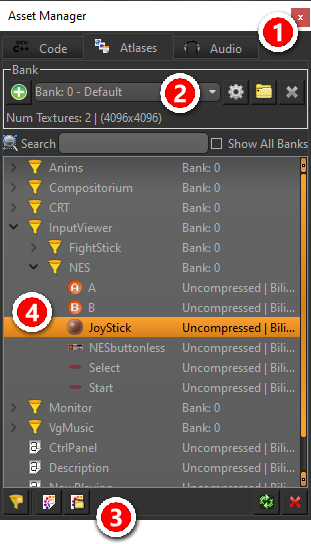
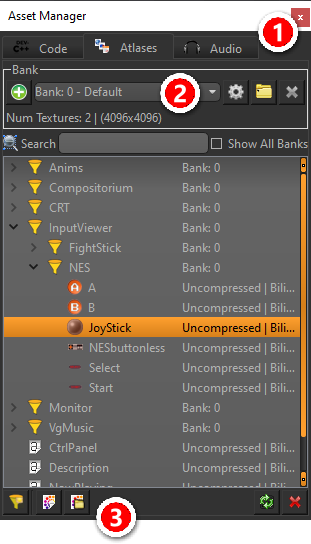
New formatting; asset manager content

Changed region(s): [[0.0289, 0.5312, 0.1736, 0.625], [0.3183, 0.9688, 0.4341, 1.0], [0.4341, 0.9375, 0.463, 0.9688]]

diff --git a/mkdocs/docs/stylesheets/hyengine.css b/mkdocs/docs/stylesheets/hyengine.css
@@ -3,3 +3,13 @@
   --md-primary-fg-color--light: #ECB7B7;
   --md-primary-fg-color--dark:  #90030C;
 }
+
+.hyorange {
+	color: #FA5A0A;
+	transform: scale(1.85);
+}
+
+.md-typeset .grid.cards > ul > li,
+.md-typeset .grid.cards > ul > li > * {
+	font-size: 0.6rem;
+}

diff --git a/mkdocs/docs/editor/asset-manager.md b/mkdocs/docs/editor/asset-manager.md
@@ -1,47 +1,72 @@
----
+---
 title: "Asset Manager"
 ---
 
-## Overview
-
-The below example is for all asset types besides **Code**, which is covered below in the [Code & Build Management](#code-build-management) section.   
+## 🔸Overview
 
 <figure>
   <img src="../img/editor/asset-manager.png" alt="Asset Manager Dock Window">
-  <figcaption>Your source code is also considered assets! Along with textures and audio. </figcaption>
+  <figcaption>Along with textures and audio, your source code is also considered assets! </figcaption>
 </figure>
 
-1. Each tab along the top independently manages a different type of asset:
-    - **Code:** Your C++ source code files, including auto-generated [entity](./items/entity.md) classes
-    - **Atlases:** Imported and generated image files combined into texture atlases
-    - **Audio:** Sound files, including music and sound effects
-2. Banks are used to group assets that are likely to be used together. Examples would be grouping assets by game level, or by type (e.g., UI sounds vs. gameplay sounds).
-> Code assets do not use banks. They instead make **builds**, which are entirely different and explained in the [Build Settings](#build-settings) section.
+1⃣. Each tab along the top independently manages a different type of asset:
 
-3. Along the bottom are the tool buttons that allow you to manage your assets:
-    - ![New Filter](../img/editor/Filter-New.png): Create new filter, which is essentially a folder to organize your assets within a bank.
-    - ![Import](../img/editor/AtlasFrame.png): Import specified assets from a single directory.
-    - ![Import Dir](../img/editor/AtlasFrame-Open.png): Import all assets from a directory and its subdirectories.
-    - ![Replace](../img/editor/atlas-replaceFrame.png): Replace selected assets by selecting the same number of new assets.
-    - ![Delete](../img/editor/edit-delete.png): Delete selected assets
-> These actions do not use an undo/redo system
+- ![CodeIcon](../img/editor/code.png) **Code:** Your C++ source code files and builds.
+- ![AtlasIcon](../img/editor/atlas-file.png) **Atlases:** Imported and generated image files combined into texture atlases.
+- ![AudioIcon](../img/editor/audio-manager.png) **Audio:** Sound files, including music and sound effects.  
 
-4. The filters and assets are shown in a tree view:
-    - You can multi-select and drag 'n drop them to new locations.  
-    - Double-clicking an asset will preview it in the **Asset Inspector**, located in the Auxiliary window.  
-    - Right-clicking an asset will open a context menu with additional options, such as renaming, moving to a different bank, or setting [Asset Properties](#asset-properties).
+!!! info inline end "Code Assets"
+    Code assets do not use **Banks**. They instead make **Builds**, which are entirely different and explained in the [Build Settings](#build-settings) section.  
+2⃣. Banks are used to group assets that are likely to be used together. Examples would be grouping assets by game level, or by type (e.g., UI sounds vs. gameplay sounds).
+
+- More information can be found in the [Banks](#banks) section
+
+3⃣. Along the bottom are the tool buttons that allow you to manage your assets:
+=== "![CodeIcon](../img/editor/code.png) Code"
+    - ![New Class](../img/editor/Source-New.png): Add a new C++ class.
+    - ![New Filter](../img/editor/Filter-New.png): Create new filter, which is essentially a folder to organize your images within a bank.
+    - ![Import](../img/editor/Source.png): Import already existing code files from a single directory.
+    - ![Import Dir](../img/editor/Source-Open.png): Import already existing code files from a directory and its subdirectories.
+    - ![Replace](../img/editor/atlas-replaceFrame.png): Replace selected images by selecting the same number of new assets.
+    - ![Delete](../img/editor/edit-delete.png): Delete selected images
+    !!! warning
+        These actions do not use an undo/redo system
+
+=== "![AtlasIcon](../img/editor/atlas-file.png) Atlases"
+    - ![New Filter](../img/editor/Filter-New.png): Create new filter, which is essentially a folder to organize your images within a bank.
+    - ![Import](../img/editor/AtlasFrame.png): Import specified PNG image files from a single directory.
+    - ![Import Dir](../img/editor/AtlasFrame-Open.png): Import all PNG image files from a directory and its subdirectories.
+    - ![Replace](../img/editor/atlas-replaceFrame.png): Replace selected images by selecting the same number of new assets.
+    - ![Delete](../img/editor/edit-delete.png): Delete selected images
+    !!! warning
+        These actions do not use an undo/redo system
+
+=== "![AudioIcon](../img/editor/audio-manager.png) Audio"
+    - ![New Filter](../img/editor/Filter-New.png): Create new filter, which is essentially a folder to organize your sounds within a bank.
+    - ![Import](../img/editor/SoundClip.png): Import specified WAV sound files from a single directory.
+    - ![Import Dir](../img/editor/SoundClip-Open.png): Import all WAV sound files from a directory and its subdirectories.
+    - ![Replace](../img/editor/atlas-replaceFrame.png): Replace selected sound WAVs by selecting the same number of new assets.
+    - ![Delete](../img/editor/edit-delete.png): Delete selected sounds
+    !!! warning
+        These actions do not use an undo/redo system
+
+## 🔸Assets
+The assets and filters are shown in the main tree view:
+
+- You can multi-select and drag 'n drop them to new locations.  
+- Double ++left-button++ an asset will preview it in the **Asset Inspector**, located in the Auxiliary window.  
+- ++right-button++ an asset will open a context menu with additional options, such as renaming, moving to a different bank, or setting [Asset Properties](#asset-properties).
+- ++right-button++ an asset and selecting **Asset Properties** will open the **Asset Properties** dialog.
+
+
+## 🔸Banks
 
 <figure>
   <img src="../img/editor/asset-manager-context-menu.png" alt="Asset item context menu">
   <figcaption>Right-click context menu for an asset</figcaption>
 </figure>
 
-
-## Asset Properties
-
-Right-clicking an asset and selecting **Properties...** will open the **Asset Properties** dialog.
-
-## Code & Build Management
+## 🔸Code & Build Management
 
 When you select the **Code** tab in the **Asset Manager**, you'll see a list of your game's C++ source code files. These files are organized into **Builds**, which are configurations that determine how your code is compiled and linked.
 
@@ -59,7 +84,10 @@ Below that you can choose which 3rd party vendors Harmony will use if you have a
 
 If you need certain code libraries/dependencies to be included in your build click the ![Add Button](../img/editor/generic-add.png) **Add library dependency** button.
 
-![Library dependency widgets](../img/editor/dlg_build_settings_dependency.png)
+<figure>
+  <img src="../img/editor/dlg_build_settings_dependency.png" alt="Library dependency widgets">
+  <figcaption>Example of the cURL library as a dependency</figcaption>
+</figure>
 
 The library dependency must be a CMake compatible package. You must specify the following two fields:
 
@@ -68,9 +96,10 @@ The library dependency must be a CMake compatible package. You must specify the 
 
 **Options** can be left blank, but is useful if you want to override default options or inject CMake scripting code. The options are parsed (and cached) before the library is included.
 
-> If you already have an existing compatible build, CMake may try to update the environment automatically when you try to compile. On occasion you may need to recreate your build after adding dependencies.
+!!! note "After Adding Dependencies"
+    If you already have an existing build, CMake may try to update the environment automatically after you try to compile. On occasion, CMake errors out and prints `setlocal` in the output, which may be resolved by deleting and recreating the build.
 
-## Creating New Builds
+### Creating New Builds
 
 With your **Build Settings** determined, you can create a new build of your game by selecting `Project > New Build` from the menu, or by pressing `Ctrl+Shift+B`.
 

diff --git a/mkdocs/docs/editor/index.md b/mkdocs/docs/editor/index.md
@@ -9,40 +9,40 @@ title: "Editor Manual"
 
 <table style="border-collapse: collapse; border: none;">
     <tr style="border: none;">
-        <td style="border: none; padding-right: 20px;"><strong>1. Project Explorer</strong><br>
+        <td style="border: none; padding-right: 20px;"><strong>1⃣. Project Explorer</strong><br>
             Open <em>Project</em>'s will show up here. You may have multiple <em>Project</em>'s open and browsable at once, but only one <em>Project</em> may be 'active' at a given time. All the details are provided in the <a href="projects.html">Projects</a> section.
         </td>
-        <td style="border: none; padding-right: 20px;"><strong>2. Asset Manager</strong><br>
+        <td style="border: none; padding-right: 20px;"><strong>2⃣. Asset Manager</strong><br>
             The currently active <em>Project</em>'s <em>Asset Manager</em>. Each tab along the top are the major asset types handled independantly from each other. All the details are provided in the <a href="asset-manager.html">Asset Manager</a> section.
         </td>
     </tr>
     <tr style="border: none;">
-        <td style="border: none; padding-right: 20px;"><strong>3. Project Tab Bar</strong><br>
+        <td style="border: none; padding-right: 20px;"><strong>3⃣. Project Tab Bar</strong><br>
             All currently open <em>Project Item</em>'s from the active <em>Project</em> are shown here. You can cycle between them with <code>Ctrl+Tab</code> and each item has its own Undo/Redo stack.
         </td>
-        <td style="border: none; padding-right: 20px;"><strong>4. Project Item Properties</strong><br>
+        <td style="border: none; padding-right: 20px;"><strong>4⃣. Project Item Properties</strong><br>
             Shows all the properties of the currently selected <em>Project Item</em> in the <em>Project Tab Bar</em>. The properties set here set are reflected in the <em>middle render window</em>.
         </td>
     </tr>
     <tr style="border: none;">
-        <td style="border: none; padding-right: 20px;"><strong>5. Middle Render Window</strong><br>
-            The currently selected <em>Project Item</em> is previewed here. The renderer used here is the same renderer used in your game, <em>HyEngine</em>. Previews are created by simulating the same load process as well, so it's a WYSIWYG work-flow. Pan the view with <code>WASD</code> or <code>Middle Mouse</code>, and zoom with the <code>Mouse Wheel</code>.
+        <td style="border: none; padding-right: 20px;"><strong>5⃣. Middle Render Window</strong><br>
+            The currently selected <em>Project Item</em> is previewed here. The renderer used here is the same renderer (<em>HyEngine</em>) used in your game. Previews are created by simulating the same load process as well, so it's a WYSIWYG work-flow. Pan the view with <code>WASD</code> or <code>Middle Mouse</code>, and zoom with the <code>Mouse Wheel</code>.
         </td>
-        <td style="border: none; padding-right: 20px;"><strong>6. Auxiliary Window</strong><br>
+        <td style="border: none; padding-right: 20px;"><strong>6⃣. Auxiliary Window</strong><br>
             The Auxiliary window is contextually used when needed. By default it'll display logs, but when an additional window is needed by the <em>Asset Manager</em> or the <em>Project Item Properties</em>, a new tab along the bottom will appear and be shown. Its visibility can be toggled with <code>Ctrl+Space</code>.
         </td>
     </tr>
 </table>
 
-## ▶Editor Flow
+## 🔸Editor Flow
 
 <figure>
   <img src="../img/editor_flow.png" alt="HyEditor work flow">
   <figcaption>Shows how each section of HyEditor works together.</figcaption>
 </figure>
 
-1. Open a **Project Item** from **Project Explorer**...
-2. Shows up in **Project Tab Bar**, and when selected...
-3. It will be displayed in the **Project Item Properties** which...
-4. May reference assets in **Asset Manager** to...
-5. Show a preview in the **Middle Render Window**
+1⃣. Open a **Project Item** from **Project Explorer**...  
+2⃣. Shows up in **Project Tab Bar**, and when selected...  
+3⃣. It will be displayed in the **Project Item Properties** which...  
+4⃣. May reference assets in **Asset Manager** to...  
+5⃣. Show a preview in the **Middle Render Window**  

diff --git a/mkdocs/docs/editor/projects.md b/mkdocs/docs/editor/projects.md
@@ -1,14 +1,14 @@
----
+---
 title: "Projects"
 ---
 
-## Creating a new Project
+## 🔸Creating a new Project
 
 To create a new Project in the Project Explorer you can:
 
 - Click the ![New Project Button](../img/editor/Project-New.png) button along the top tool bar
 - `File > New Project` from the menu
-- Press `Ctrl+Shift+N`
+- Press ++ctrl+shift+n++
 
 <figure>
   <img src="../img/editor/dlg_new_project.png" alt="Create New Project Dialog">
@@ -22,22 +22,30 @@ To create a new Project in the Project Explorer you can:
 The final **Project Location** (where all the project files will be dumped) is assembled by what's specified in the text field PLUS whether **Create game directory at location** is checked.
 
 !!! note "Example Setup"
-    If you want to specify a common location for multiple game projects, specify that root location the text field and keep **Create game directory at location** checked.
+    If you want a common location for multiple game projects, specify that root location the text field and keep **Create game directory at location** checked.
 
-Within **Advanced** you can customize how the project folders (like the assets or source code) reside and what they're named. You can even specify locations outside the **Project Location**. For each entry, specify the relative path from the **Project Location**, and the name of the directory itself.
+Within **Advanced** you can customize how the project folders (like the assets or source code) reside and what they're named. You can even specify locations outside the **Project Location**. For each entry, press **Browse...** and choose the desired *parent* location, and the relative path from the **Project Location** will be filled in. Finally enter the name of the directory itself.
 
-## Project Explorer
+## 🔸Project Explorer
 
 <figure>
   <img src="../img/editor/project_explorer.png" alt="Project Explorer Dock Window">
   <figcaption>Folders within <strong>Project Explorer</strong> are often referred as <em>Prefixes</em>.</figcaption>
 </figure>
 
-1. All currently open **Project**s ![Project Icon](../img/editor/Project.png) are shown in the tree view here. Nested beneath each **Project** are the prefix folders containing the **Project Items**. The currently active project is shown with the ![Project Active Icon](../img/editor/Project-Pending.png) sub-icon.
-2. You can drag **Project Items** between entirely different game **Projects** to copy them. This will include importing any required assets into the target project.
-3. The search box allows you to filter the visible **Project Items** in the tree view. You can also filter by item type by selecting the corresponding icon.
+<div class="grid cards" markdown>
 
-## Project Settings
+- :material-numeric-1-circle:{.hyorange}All currently open **Project**s ![Project Icon](../img/editor/Project.png) are shown in the tree view here. Nested beneath each **Project** are the prefix folders containing the **Project Items**. The currently active project is shown with the ![Project Active Icon](../img/editor/Project-Pending.png) sub-icon.  
+- :material-numeric-2-circle:{.hyorange}You can drag **Project Items** between entirely different game **Projects** to copy them. This will include importing any required assets into the target project.  
+- :material-numeric-3-circle:{.hyorange}The search box allows you to filter the visible **Project Items** in the tree view. You can also filter by item type by selecting the corresponding icon.
+
+</div>
+
+## 🔸Project Settings
 
 Under Development - Dialog tool meant to edit the game's .hyproj file
+
+## 🔸Creating new Project Items
+
+
 

diff --git a/mkdocs/docs/getting-started/install.md b/mkdocs/docs/getting-started/install.md
@@ -4,7 +4,7 @@ title: "Installation & Setup"
 
 This guide explains how to install the Harmony Game Engine (HyEngine) and prepare your environment. You can optionally compile the HyEditor or download a prebuilt release. All steps assume a Windows or Linux development environment.
 
-## ▶Prerequites
+## 🔸Prerequites
 Before cloning Harmony Engine or building the editor, ensure the following tools are installed:
 
 ### C++ Toolchain (IDE)
@@ -27,7 +27,7 @@ Harmony Engine uses CMake internally to configure and generate all build files f
 1. Download CMake: [https://cmake.org/download/](https://cmake.org/download/)
 2. Ensure you select "Add CMake to system PATH" during installation
 
-## ▶Clone Git repository
+## 🔸Clone Git repository
 
 Clone the Harmony Engine repository and initialize submodules:
 ```
@@ -38,7 +38,7 @@ git submodule update --init --recursive
 Editor and Engine submodules are found in their respective 'vendor' directories.
 > Important: Submodules must be initialized or the editor and engine will not build correctly.
 
-## ▶Get the Editor
+## 🔸Get the Editor
 You can either:
 
 - Download a pre-built Release, or
@@ -91,7 +91,7 @@ In the next dialog, choose which IDE to generate in first combo box (Visual Stud
 
 > If using Visual Studio, installing *Qt Visual Studio Tools* extension is recommended for Qt-aware debugging and UI file navigation
 
-## ▶Running the Editor for the First Time
+## 🔸Running the Editor for the First Time
 
 Whenever HyEditor launches, it checks whether it can find where the Harmony Engine project is located. 
 
@@ -115,7 +115,7 @@ When you continue, HyEditor will remember this location, and various other edito
 
 > If you ever want to change the Harmony Project location, first close HyEditor. You can delete the old location then reopen HyEditor, or keep the old location and point to a new location by doing **Tools** -> **Change Harmony Location**
 
-## ▶Uninstalling Harmony Engine
+## 🔸Uninstalling Harmony Engine
 
 - Remove the editor preferences setting at:
 

diff --git a/mkdocs/docs/programming/index.md b/mkdocs/docs/programming/index.md
@@ -8,7 +8,7 @@ hide: toc
   <figcaption>How your game application works with HyEngine. All new projects are generated with this basic structure.</figcaption>
 </figure>
 
-## Global Engine Utilities
+## 🔸Global Engine Utilities
 
 The `HyEngine` base class provides public static methods to access global engine functionality and information.
 ``` cpp
@@ -45,12 +45,12 @@ static HyTextureQuadHandle CreateTexture(std::string sFilePath, HyTextureInfo te
 static HyAudioHandle CreateAudio(std::string sFilePath, bool bIsStreaming = false, int32 iInstanceLimit = 0, int32 iCategoryId = 0);
 ```
 
-## ▶ Next Steps
+## 🔸Next Steps
 More information for the above functions and more can be found in:
 
 → **[Windows & Cameras](./windows-cameras.md)**  
 → **[Scene Management](./scene/index.md)**  
-↪ [Item Nodes](./scene/item-nodes.md) | [Entities & Physics](./scene/entities.md) | [User Interface](./scene/user-interface.md)  
+:material-arrow-right-bottom: [Item Nodes](./scene/item-nodes.md) | [Entities & Physics](./scene/entities.md) | [User Interface](./scene/user-interface.md)  
 → **[Input Handling](./input.md)**  
 → **[Audio System](./audio.md)**  
 → **[Diagnostics & Debugging](./diagnostics.md)**  

diff --git a/mkdocs/docs/getting-started/index.md b/mkdocs/docs/getting-started/index.md
@@ -17,7 +17,7 @@ The Harmony Engine consists of two main projects.
 The editor tool (**HyEditor**) that manages projects, assets, and scenes. And the engine itself (**HyEngine**) which is a static library that links into your game application.
 
 
-## ▶ Next Steps
+## 🔸Next Steps
 
 → **[Installation & Setup](install.md)**  
 → **[First Project](first-project.md)**  

diff --git a/mkdocs/docs/getting-started/first-project.md b/mkdocs/docs/getting-started/first-project.md
@@ -1,4 +1,4 @@
----
+---
 title: "First Project"
 ---
 
@@ -6,10 +6,11 @@ Our goal here is to speedrun a simple game to cover Harmony Engine's major featu
 
 
 
-## Create the Project
+## 🔸Create the Project
 
-## Import the Assets
+## 🔸Import the Assets
 
-## Create the Project Items
+## 🔸Create the Project Items
 
-## Write the Game
+## 🔸Write the Game
+
